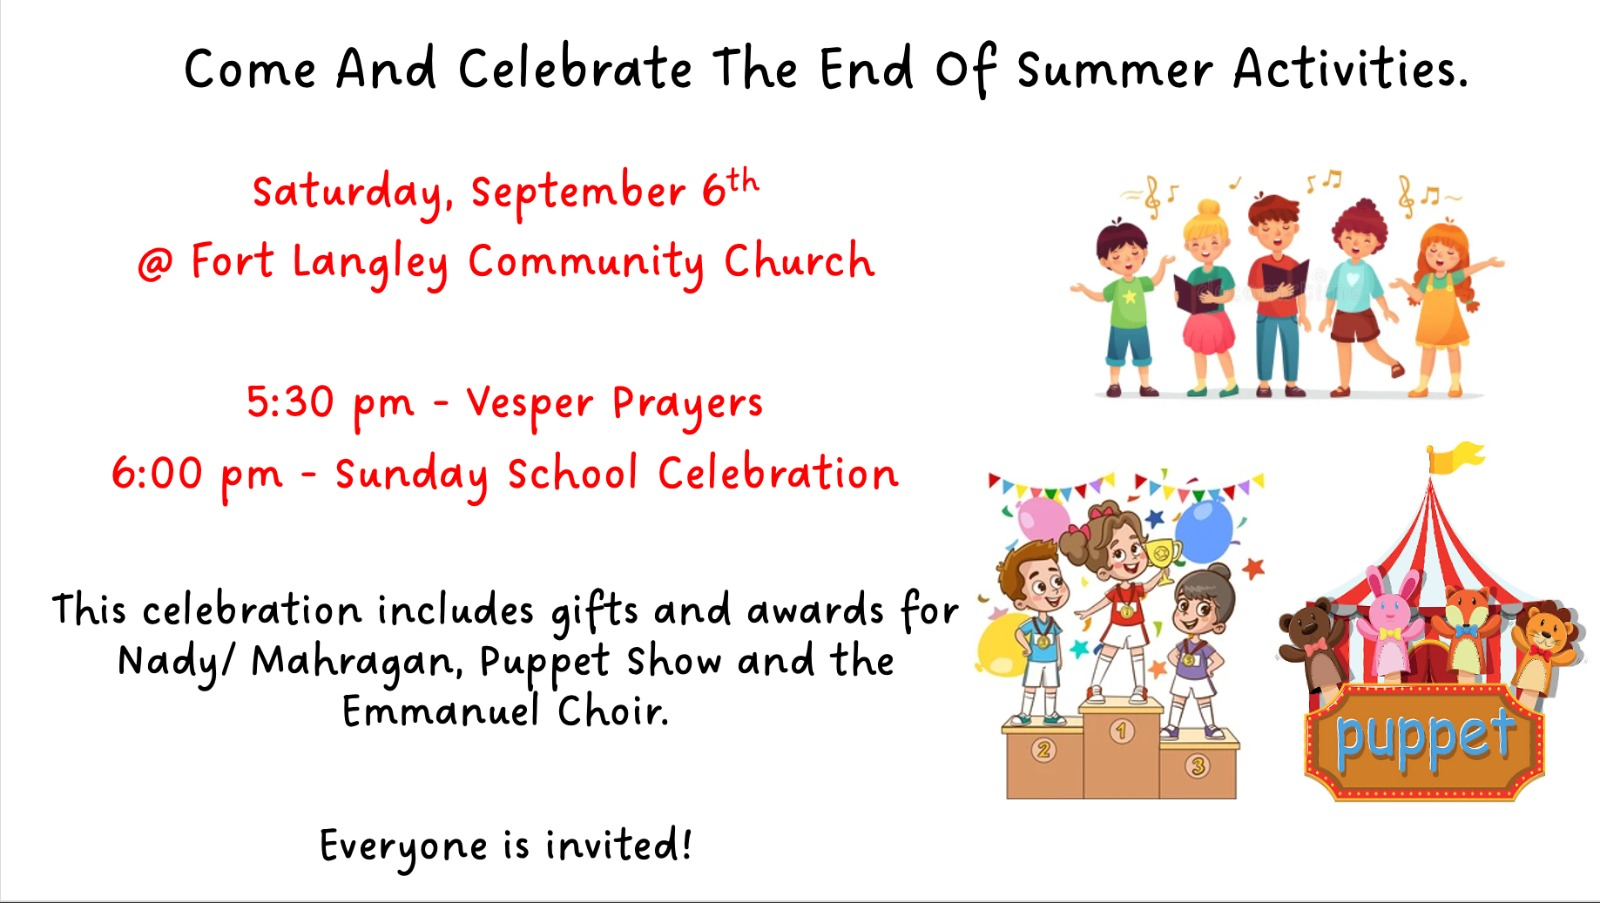
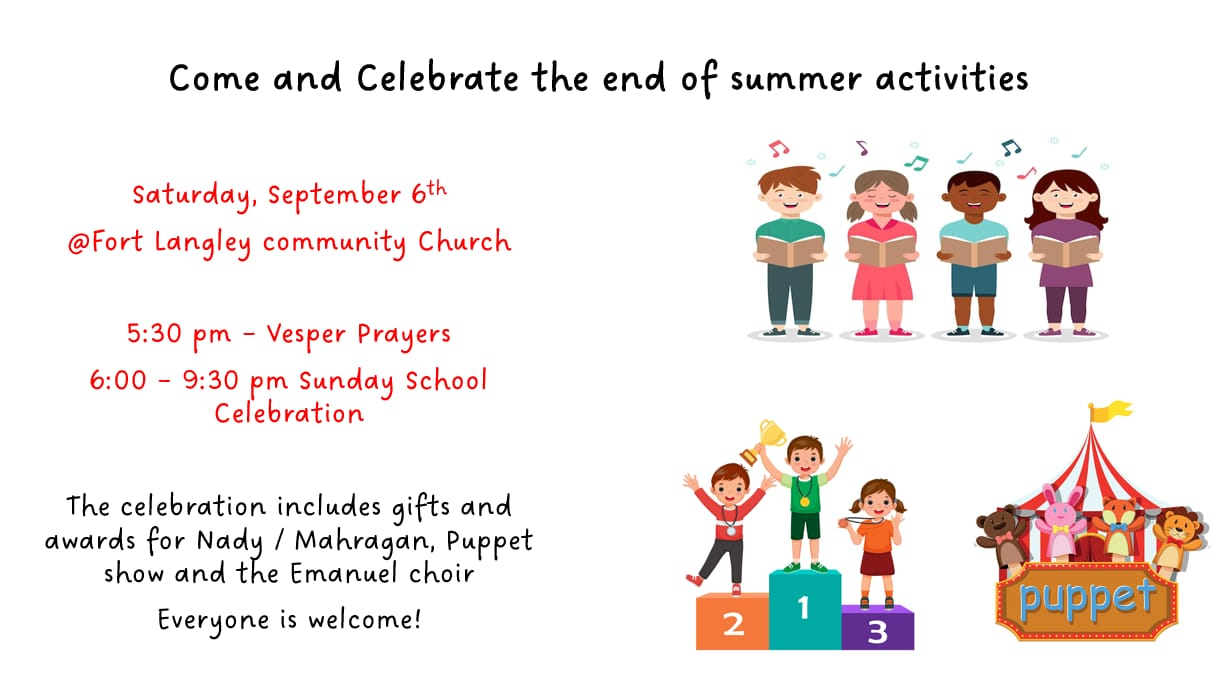
end summer activity 2

diff --git a/notify/2025/09/end-of-summer/index.html b/notify/2025/09/end-of-summer/index.html
@@ -1,0 +1,17 @@
+<!DOCTYPE html>
+<html lang="en">
+<head>
+   <meta charset="UTF-8">
+   <meta name="viewport" content="width=device-width, initial-scale=1.0">
+   <title>Come and Celebrate the end of summer activities</title>
+</head>
+<body>
+   <div style="font-family: arial; width: 99%; margin: auto; font-size: larger;">
+      <div style="display: flex; justify-content: center; align-items: center;">
+         <img src="https://our.stgeorge.ca/notify/2025/09/end-of-summer/end-of-summer.jpg" 
+     alt="Come and Celebrate the end of summer activities" 
+     style="width: 100%; margin: 0px 5px 0px 5px; height: auto; border: 2px solid beige;"/>
+      </div>
+   </div>
+</body>
+</html>
